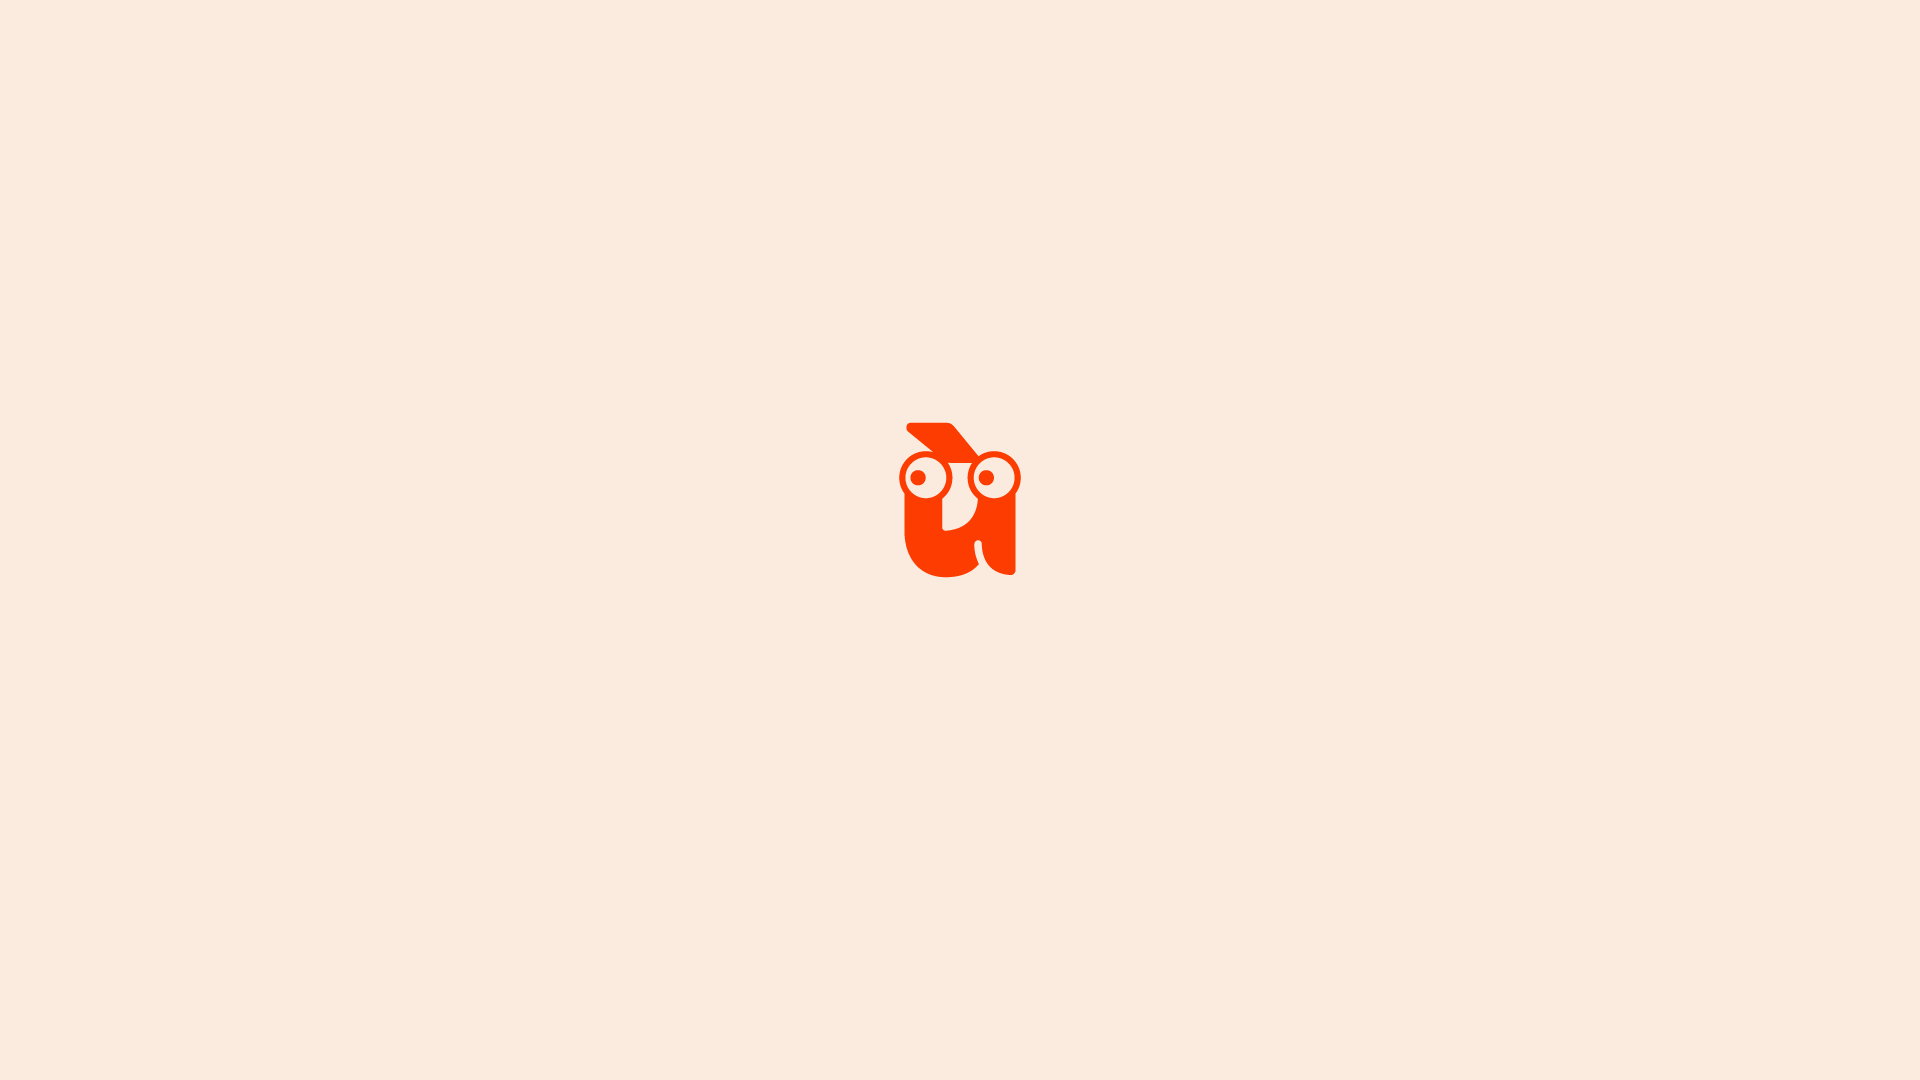
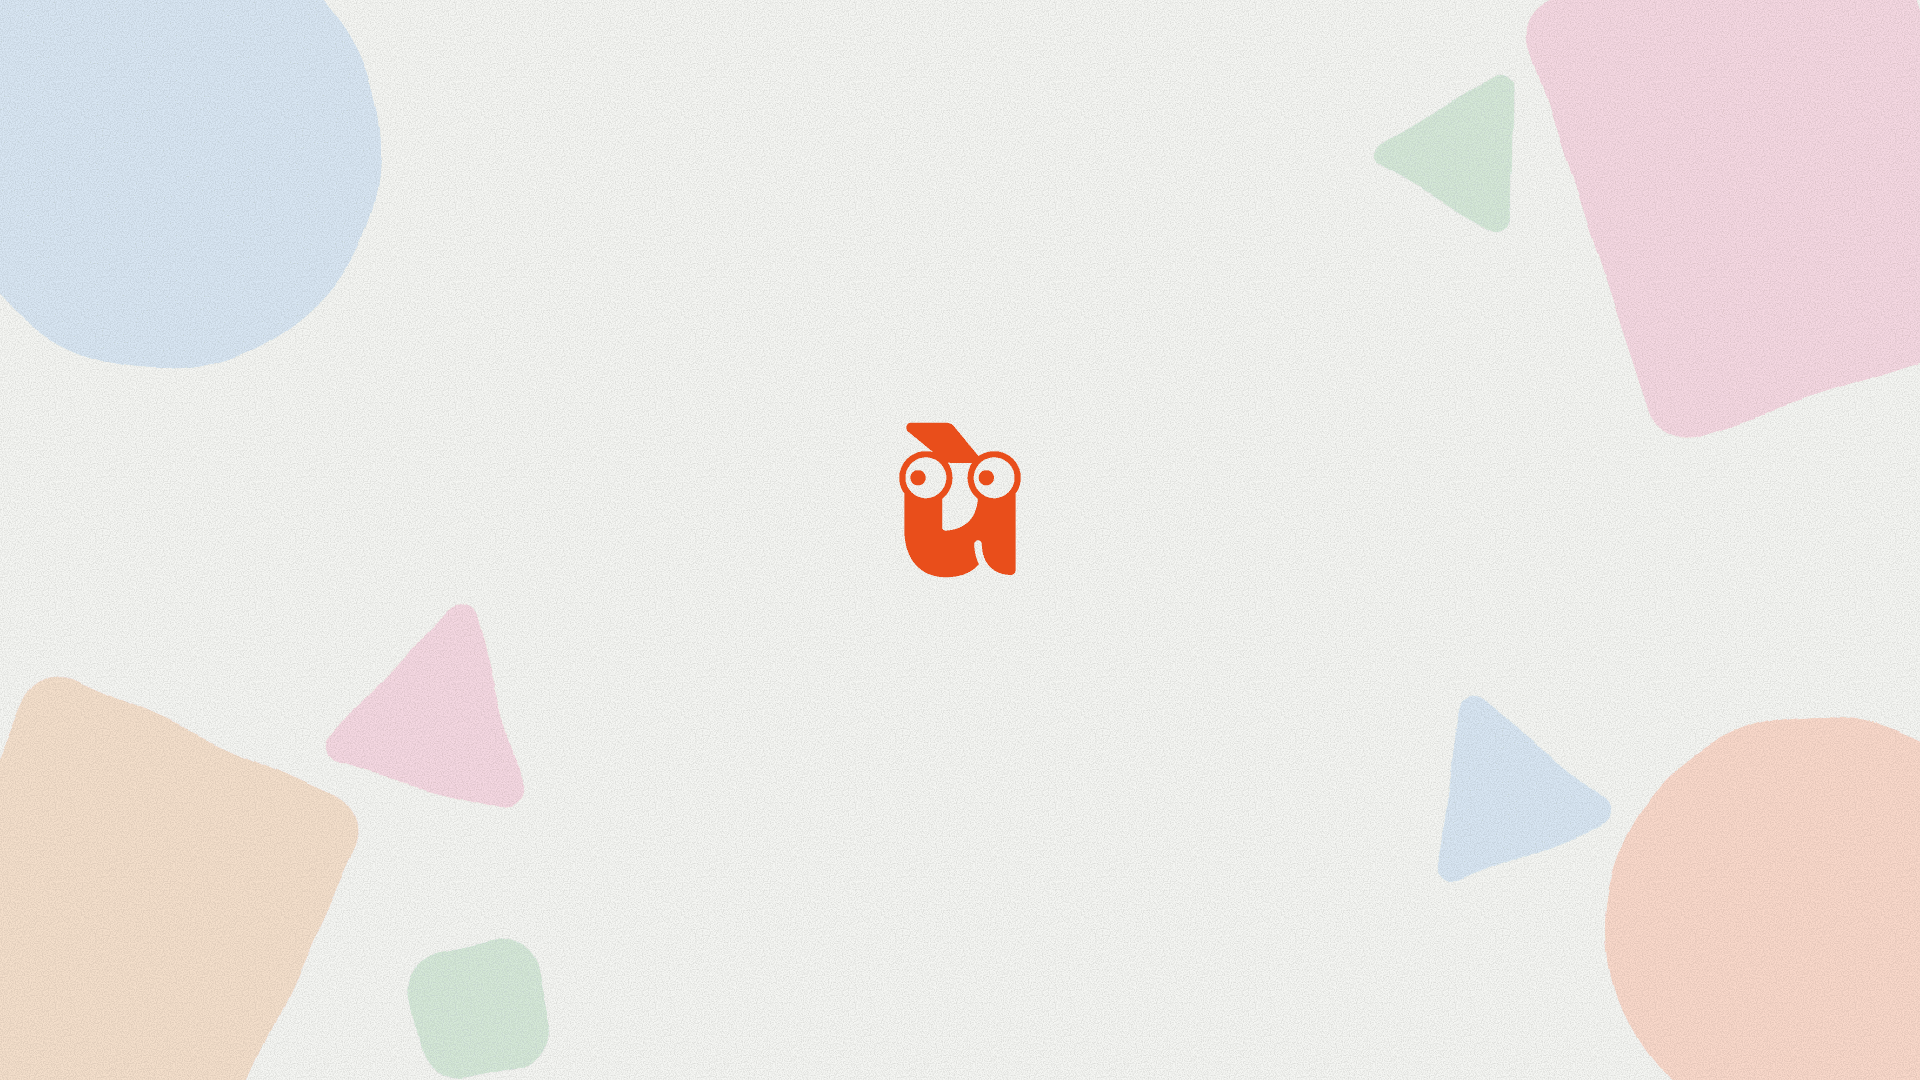
feat: new TV screens in the Cucù style and centred device render
- TV screens redrawn like the website (warm grey, pastel hand-made
  shapes, grain, demo illustrations): idle, new end-of-episode screen,
  "another one?" after removal, sleeping owl when time limits block,
  splash with the Cucù logo (TinyWorlds gone), new hourglass overlay
- Boot splash frames keep the owl animation on the new background
- Source in graphics/src/tv-screens.html, rendered with render.py
- read_nfc.py shows END/WAIT_NEXT/REST images; a figurine blocked by
  time limits after an episode is no longer retried every tick
- Web app: device render centred on the Now page
- Release 0.9.0

diff --git a/api/index.html b/api/index.html
@@ -798,11 +798,15 @@
     .tv-foot { width: 30%; height: 8px; margin: 10px auto 0; border-radius: 8px; background: var(--line); filter: url(#mano-oggetto); }
 
     /* Il dispositivo: render del sito con le forme pastello dietro */
+    /* Nel render il corpo del dispositivo sta al 37% della larghezza (a destra
+       c'è solo l'ombra): si sposta tutto il gruppo del 13% per centrare l'oggetto,
+       non l'immagine */
     .device-wrap {
       position: relative;
       isolation: isolate;
       width: min(78%, 22rem);
       margin: 0 auto;
+      translate: 13% 0;
     }
 
     .device-wrap .device-img { display: block; width: 100%; height: auto; }
@@ -857,7 +861,7 @@
 
     @media (min-width: 768px) {
       .stage { grid-template-columns: 1.35fr 1fr; align-items: end; gap: 24px; }
-      .device-wrap { width: 100%; margin-bottom: 12px; }
+      .device-wrap { width: 88%; margin-bottom: 12px; }
     }
 
     /* ---------- PIN ---------- */

diff --git a/read_nfc.py b/read_nfc.py
@@ -26,8 +26,11 @@ GRAPHICS_DIR = BASE_DIR / "graphics"
 TIME_LIMITS_PATH = BASE_DIR / "time_limits.json"
 DAILY_USAGE_PATH = BASE_DIR / "daily_usage.json"
 
-IDLE_IMAGE = GRAPHICS_DIR / "idle.png"
-WAIT_NEXT_IMAGE = GRAPHICS_DIR / "wait_next.png"
+# Schermate sulla TV (sorgente e rigenerazione: graphics/src/)
+IDLE_IMAGE = GRAPHICS_DIR / "idle.png"            # appoggia una statuina
+END_IMAGE = GRAPHICS_DIR / "end.png"              # episodio finito: togli la statuina
+WAIT_NEXT_IMAGE = GRAPHICS_DIR / "wait_next.png"  # statuina tolta: un altro? si decide insieme
+REST_IMAGE = GRAPHICS_DIR / "rest.png"            # statuina bloccata dai limiti di tempo
 HOURGLASS_DIR = GRAPHICS_DIR / "hourglass"
 HOURGLASS_LEVELS = 10  # 0 = vuoto/limite raggiunto, 9 = pieno
 
@@ -143,6 +146,9 @@ current_video_path = None
 
 last_uid = None
 had_tag = False
+# Statuina che non è potuta partire per i limiti di tempo: finché resta
+# appoggiata si mostra REST_IMAGE e non si ritenta a ogni tick
+start_blocked_uid = None
 
 # Stato episodi persistente
 EPISODE_STATE_FILE = BASE_DIR / "episode_state.json"
@@ -484,16 +490,17 @@ def _compute_hourglass_level(character):
     return min(HOURGLASS_LEVELS - 1, int(fraction * HOURGLASS_LEVELS))
 
 def start_video(character):
+    """Ritorna "played", "blocked" (limiti di tempo) o "missing" (nessun video)."""
     global current_character, mode, current_video_path
     allowed, remaining_minutes = is_viewing_allowed_now(character)
     if not allowed:
         print(f"Visione non permessa ora per '{character}' (limiti di tempo attivi).")
-        return
+        return "blocked"
 
     selection = _select_episode(character)
     if not selection:
         print(f"Nessun video trovato per {character}")
-        return
+        return "missing"
     video, known, remaining, seen = selection
 
     if remaining_minutes is not None:
@@ -503,7 +510,7 @@ def start_video(character):
                 f"Episodio '{video.name}' ({duration_min:.1f} min) supera il tempo "
                 f"residuo oggi ({remaining_minutes:.1f} min): resto in idle."
             )
-            return
+            return "blocked"
 
     _commit_episode(character, known, remaining, seen)
 
@@ -513,6 +520,7 @@ def start_video(character):
     current_video_path = video
     mode = "playing"
     player.set_hourglass_level(_compute_hourglass_level(character))
+    return "played"
 
 def manage_graphics():
     """Gestisce la grafica in base allo stato, SE non stiamo riproducendo un video."""
@@ -616,9 +624,7 @@ try:
             if player.check_ended():
                 print("Video finito.")
                 mode = "ended_wait_remove"
-                # Placeholder: stessa immagine dell'idle, in attesa di una
-                # grafica dedicata per la fine dell'episodio.
-                refresh_graphic(IDLE_IMAGE) # Immediato switch
+                refresh_graphic(END_IMAGE) # "Fine": togli la statuina
                 save_daily_usage()
                 usage_unsaved_seconds = 0.0
 
@@ -662,19 +668,25 @@ try:
         if mode == "idle":
             if tag_just_added:
                 char = tag_map.get(uid)
+                start_blocked_uid = None
                 if char:
                     # START VIDEO
-                    start_video(char)
+                    result = start_video(char)
                     current_graphic_path = None # reset grafica tracker
+                    if result == "blocked":
+                        start_blocked_uid = uid
+                        refresh_graphic(REST_IMAGE) # il gufetto riposa
                 else:
                     print(f"Tag sconosciuto: {uid}")
             elif tag_removed:
+                start_blocked_uid = None
                 refresh_graphic(IDLE_IMAGE) # Torna a idle puro se tolto tag sconosciuto
-            elif has_tag and current_graphic_path != IDLE_IMAGE:
-                 # Tag presente ma nessun video partito (tag sconosciuto o
-                 # bloccato dai limiti di tempo). Placeholder: stessa immagine
-                 # dell'idle, in attesa di una grafica dedicata.
-                 refresh_graphic(IDLE_IMAGE)
+            elif has_tag:
+                # Tag presente ma nessun video partito: bloccato dai limiti
+                # (gufetto che riposa) oppure sconosciuto/senza video (attesa)
+                target = REST_IMAGE if uid == start_blocked_uid else IDLE_IMAGE
+                if current_graphic_path != target:
+                    refresh_graphic(target)
 
         elif mode == "playing":
             if tag_removed:
@@ -709,19 +721,26 @@ try:
             if tag_removed:
                 print("Tag rimosso post-episodio.")
                 mode = "ended_wait_return"
-                # Grafica resta quella impostata a fine episodio (oggi: idle.png)
+                refresh_graphic(WAIT_NEXT_IMAGE) # un altro? si decide insieme
 
         elif mode == "ended_wait_return":
             # Qui accettiamo qualsiasi NUOVO tag.
             # Usiamo has_tag per essere sicuri di prendere anche uno swap immediato
-            if has_tag:
+            # (una statuina già rifiutata per i limiti non si ritenta a ogni tick)
+            if has_tag and uid != start_blocked_uid:
                 char = tag_map.get(uid)
                 if char:
                     print(f"Nuovo episodio per {char}")
-                    start_video(char)
+                    result = start_video(char)
                     current_graphic_path = None
+                    if result == "blocked":
+                        start_blocked_uid = uid
+                        refresh_graphic(REST_IMAGE)
                 else:
                     print("Tag sconosciuto post-episodio.")
+            elif not has_tag and start_blocked_uid is not None:
+                start_blocked_uid = None
+                refresh_graphic(WAIT_NEXT_IMAGE)
 
         # Aggiorna tracking
         last_uid = uid
